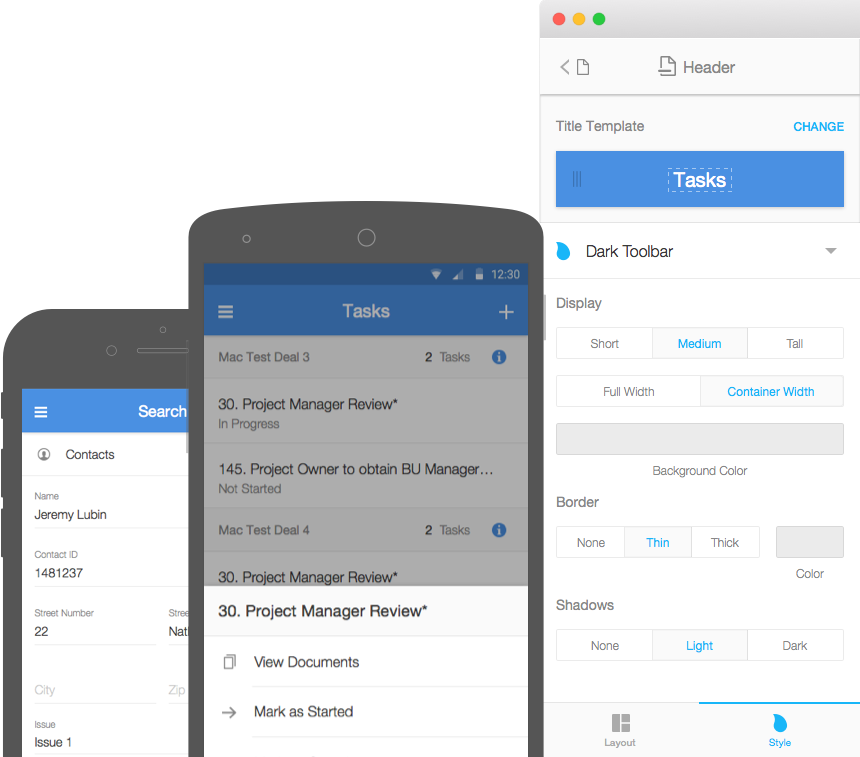
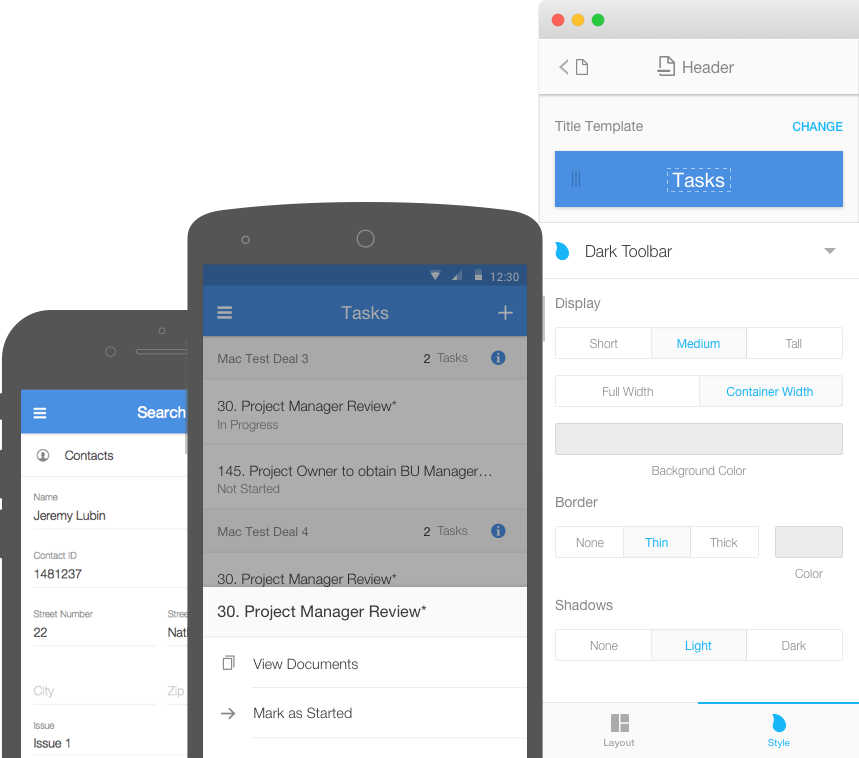
add higher res versions of capriza and columns

diff --git a/index.html b/index.html
@@ -115,6 +115,7 @@
 				<article class="timeline-article">
 					<p>
 					The Columns Project provides beautiful, embeddable tables for journalists, academics and bloggers who want to spread knowledge through data.
+					<br /><br />
 					</p>
 					<div class="upload-preview-mobile">
 						<script type="text/javascript" src="http://colum.nz/public/embed-table.js" data-table-id="181" async></script>
@@ -122,7 +123,7 @@
 					<p>
 					Simply upload a .csv and The Columns Project transforms your raw data into a beautiful, mobile-friendly table. Columns tables can be embedded anywhere on the web with a single line of code.
 					<br /><br />
-					This is a personal project for which I do all of the design, development and marketing.
+					This is a personal project for which I design, develop and evangelize.
 					<br /><br />
 					<a href='http://thecolumnsproject.com'>thecolumnsproject.com</a>
 					</p>

diff --git a/css/main.css b/css/main.css
@@ -162,8 +162,7 @@ footer.light {
     max-width: 323px; }
   #columns-detail .upload-preview-mobile {
     display: none;
-    background: none;
-    margin-top: 32px; }
+    background: none; }
 
 #queue {
   height: 600px;
@@ -433,7 +432,10 @@ article {
     height: 104px; }
 
   .timeline-identifier {
-    font-size: 14px; } }
+    font-size: 14px; }
+    .timeline-identifier > span {
+      display: inline-block;
+      margin-top: 8px; } }
 /* Colors */
 /* Spacing */
 .upload-preview.mobile {

diff --git a/css/section.css b/css/section.css
@@ -82,8 +82,7 @@ footer.light {
     max-width: 323px; }
   #columns-detail .upload-preview-mobile {
     display: none;
-    background: none;
-    margin-top: 32px; }
+    background: none; }
 
 #queue {
   height: 600px;

diff --git a/css/timeline.css b/css/timeline.css
@@ -97,4 +97,7 @@ article {
     height: 104px; }
 
   .timeline-identifier {
-    font-size: 14px; } }
+    font-size: 14px; }
+    .timeline-identifier > span {
+      display: inline-block;
+      margin-top: 8px; } }

diff --git a/stylesheets/section.scss b/stylesheets/section.scss
@@ -79,7 +79,7 @@ $columns-color: #3E97BD;
 	.upload-preview-mobile {
 		display: none;
 		background: none;
-		margin-top: $spacing * 4;
+		// margin-top: $spacing * 4;
 	}
 }
 

diff --git a/stylesheets/timeline.scss b/stylesheets/timeline.scss
@@ -118,5 +118,10 @@ article {
 
 	.timeline-identifier {
 		font-size: 14px;
+
+		& > span {
+			display: inline-block;
+			margin-top: $spacing;
+		}
 	}
 }
